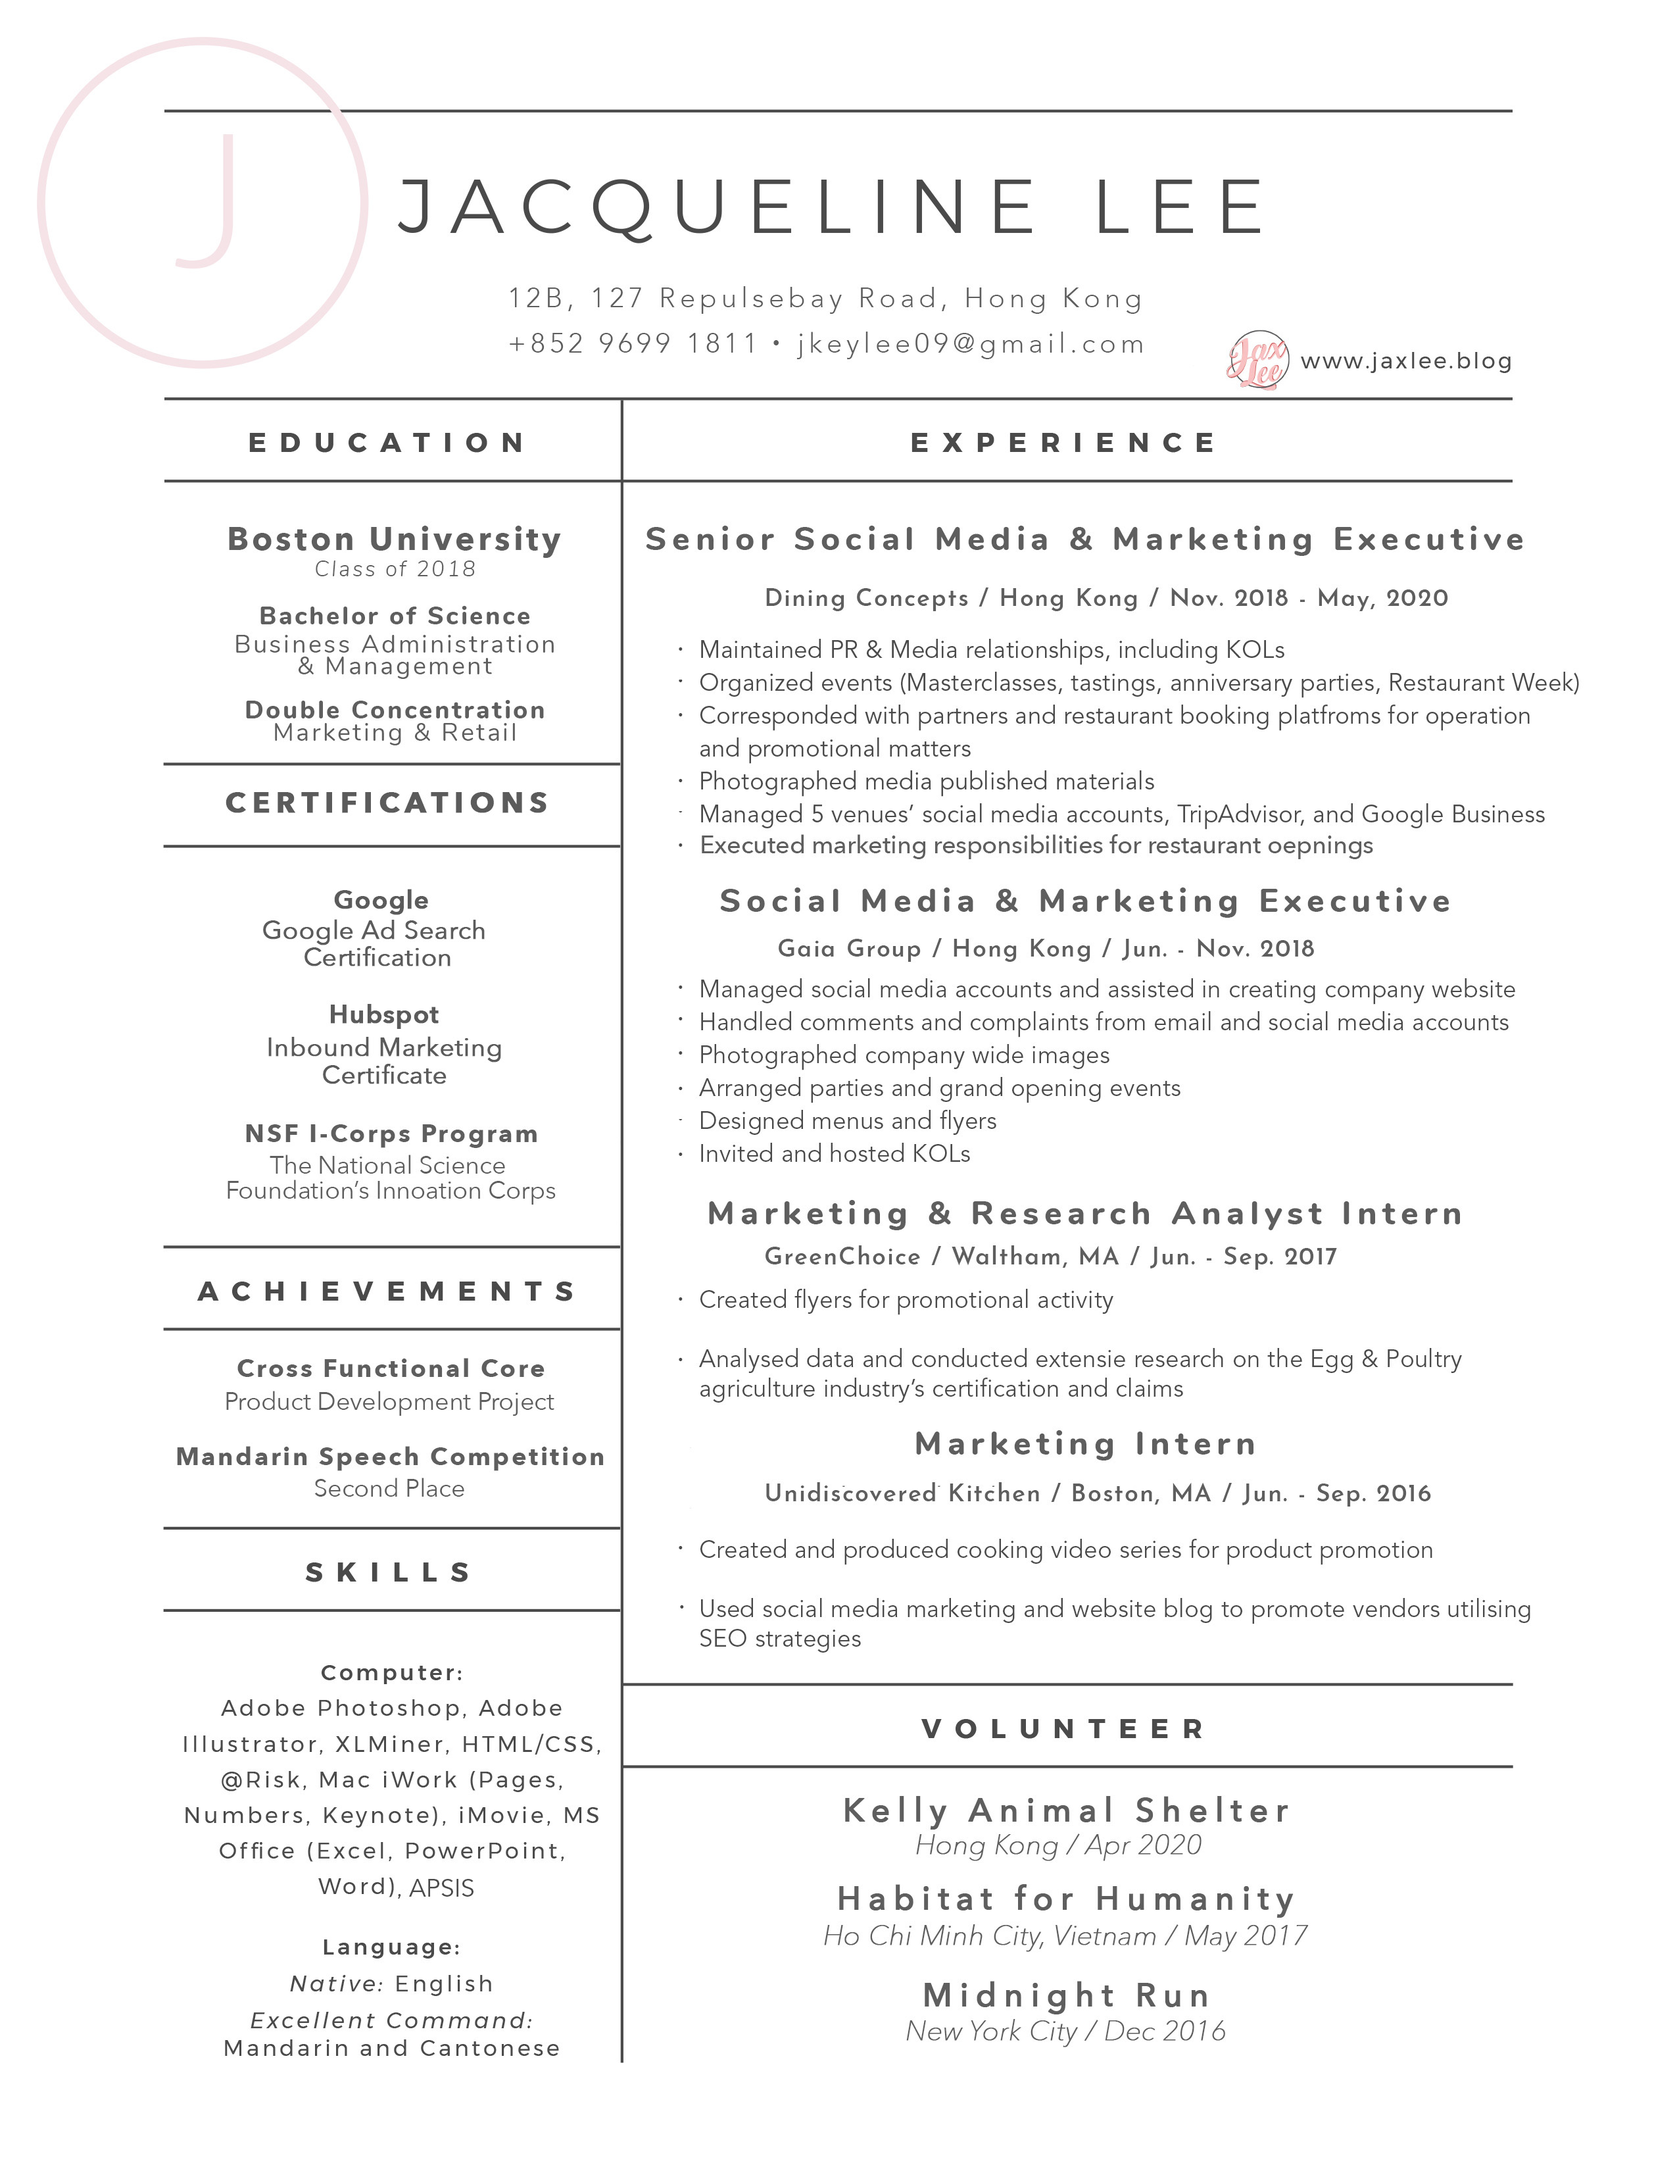
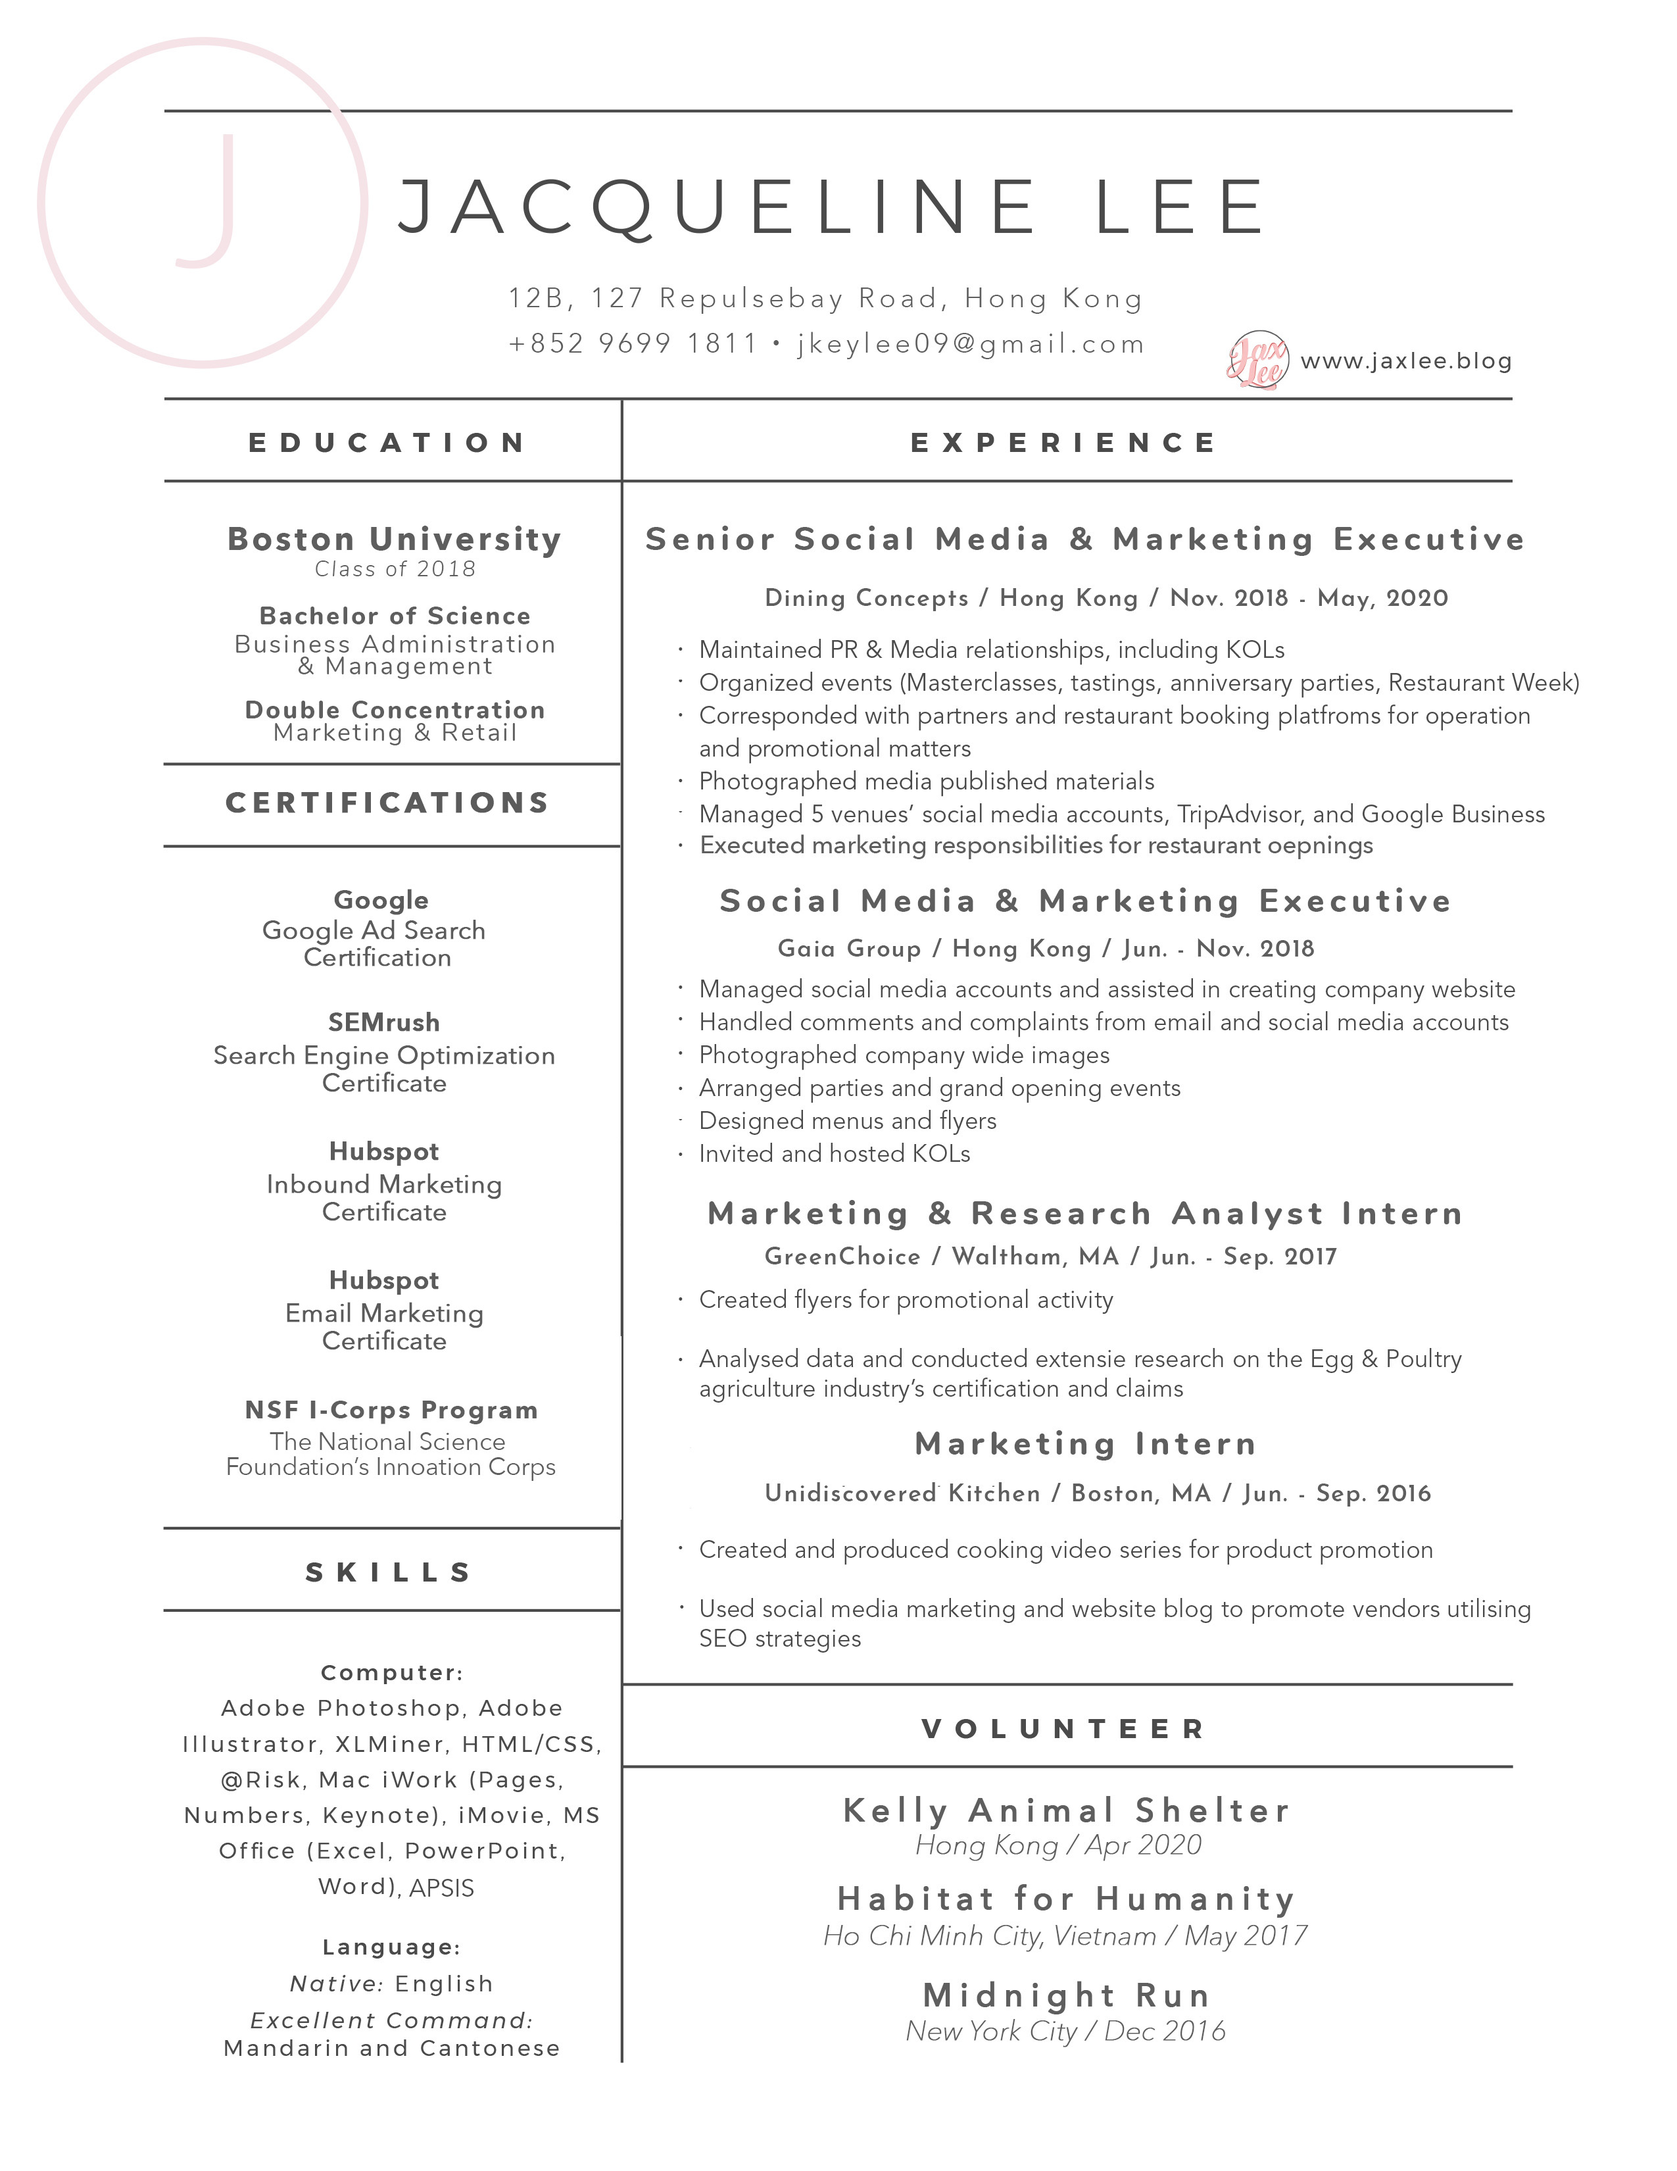
`

Changed region(s): [[0.1239, 0.4682, 0.3408, 0.6867]]

diff --git a/Achievements.html b/Achievements.html
@@ -43,6 +43,17 @@
 	</ul>
     <ul>
       <center>
+        <!-- Begin: HubSpot Academy - Inbound Badge -->
+<img src='https://hubspot-academy.s3.amazonaws.com/prod/tracks/user-badges/c2ad9507979344bb804f49a11471a78a-1588163612047.png' />
+<!-- End: HubSpot Academy - Inbound Badge -->
+
+        <!-- Begin: HubSpot Academy - Email Marketing Badge -->
+
+<img src='https://hubspot-academy.s3.amazonaws.com/prod/tracks/user-badges/a4fb5ab230fc4813b692af8c23b9fb9c-1588665753756.png' />
+</a>
+<!-- End: HubSpot Academy - Email Marketing Badge -->
+
+
     <p><b><a href="https://www.nsf.gov/news/special_reports/i-corps/index.jsp">I-Corps</b></a></p>
     <p> <i> August 2017 </i>
     </p></center>
